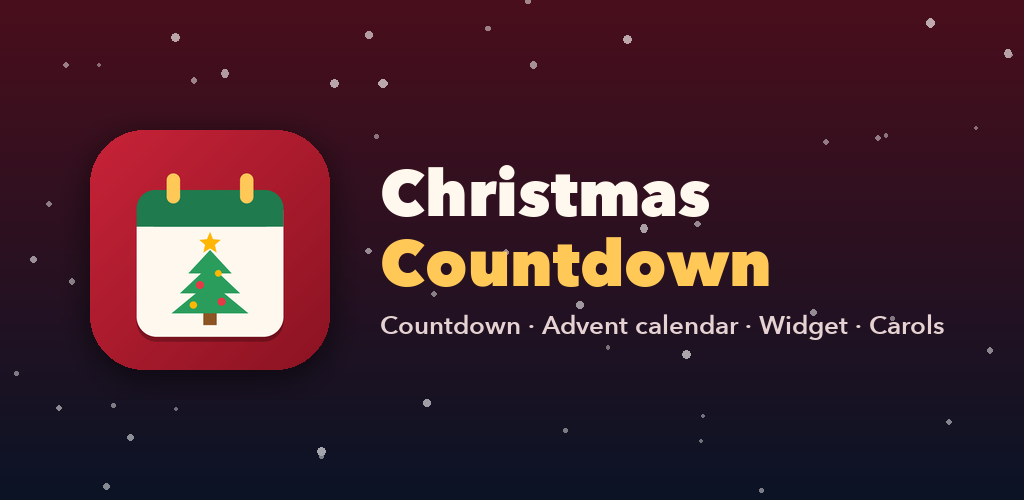
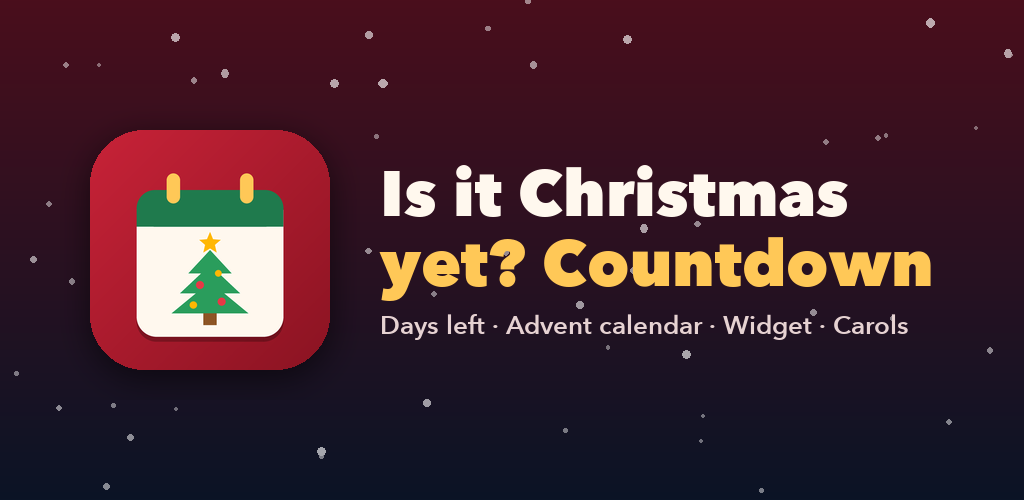
Christmas Countdown becomes "¿Ya es Navidad? Cuenta atrás"
Same "question + what it is" shape as the other apps. Launcher name
"¿Ya es Navidad?" / "Is it Christmas yet?"; Play titles "¿Ya es Navidad?
Cuenta atrás" / "Is it Christmas yet? Countdown" (30 chars). The short
description still starts with "Cuenta atrás para Navidad" for search.
Feature graphic tagline no longer repeats "Cuenta atrás".

Claude-Session: https://claude.ai/code/session_01Y4G3xPj6Pwws8jz8BPCSLR

Changed region(s): [[0.375, 0.33, 0.8438, 0.45], [0.375, 0.48, 0.9062, 0.6], [0.375, 0.63, 0.9375, 0.69]]

diff --git a/apps/christmas-countdown/tools/generate_store_assets.py b/apps/christmas-countdown/tools/generate_store_assets.py
@@ -17,8 +17,8 @@ GOLD, SNOW = (255, 200, 87), (255, 248, 238)
 
 LOCALES = {
     "en-US": {
-        "title": "Christmas Countdown",
-        "tagline": "Countdown · Advent calendar · Widget · Carols",
+        "title": "Is it Christmas yet? Countdown",
+        "tagline": "Days left · Advent calendar · Widget · Carols",
         "headlines": {
             "01-countdown": ("Every second", "until Christmas"),
             "02-sleeps": ("Count the sleeps,", "just like kids do"),
@@ -28,8 +28,8 @@ LOCALES = {
         },
     },
     "es-ES": {
-        "title": "Cuenta atrás para Navidad",
-        "tagline": "Cuenta atrás · Adviento · Widget · Villancicos",
+        "title": "¿Ya es Navidad? Cuenta atrás",
+        "tagline": "Días que faltan · Adviento · Widget · Villancicos",
         "headlines": {
             "01-countdown": ("Cada segundo", "hasta Navidad"),
             "02-sleeps": ("Cuenta las noches,", "como los peques"),

diff --git a/README.md b/README.md
@@ -17,7 +17,7 @@
 
 | App | Status | Folder |
 |---|---|---|
-| 🎄 [Christmas Countdown](apps/christmas-countdown) | [On Google Play](https://play.google.com/store/apps/details?id=com.jorgelillo.christmascountdown) | `apps/christmas-countdown` |
+| 🎄 [Is it Christmas yet? · Countdown](apps/christmas-countdown) | [On Google Play](https://play.google.com/store/apps/details?id=com.jorgelillo.christmascountdown) | `apps/christmas-countdown` |
 | 🎡 [What next? · Decision Wheel](apps/decision-wheel) | [On Google Play](https://play.google.com/store/apps/details?id=com.jorgelillo.decisionwheel) | `apps/decision-wheel` |
 | 🕵 [Who's lying? · Impostor game](apps/whos-lying) | In development | `apps/whos-lying` |
 | 🔴🔵 [What do you vote? · Group polls](apps/group-polls) | In development (needs its Firebase project) | `apps/group-polls` |
